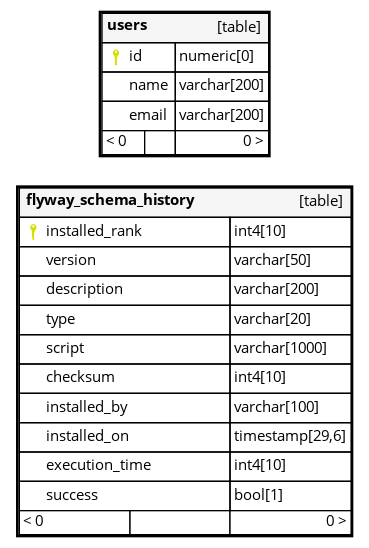
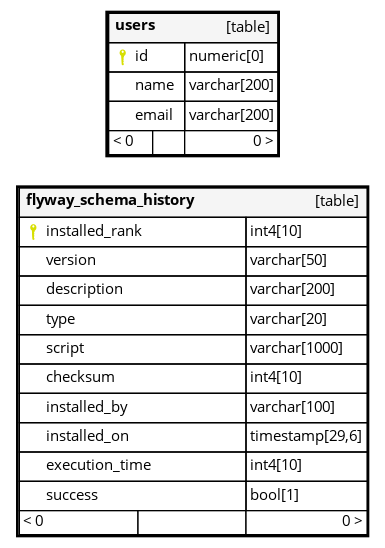
Deploying to gh-pages from @ bcgov/gbadb@96ab37b8b881ae4fc830bc71c710c72a555bdfd5 🚀

diff --git a/schemaspy/users/columns.html b/schemaspy/users/columns.html
@@ -116,9 +116,23 @@
         "tableType": "Table",
         "keyClass": "",
         "keyTitle": "",
-        "name": "version",
+        "name": "script",
         "type": "varchar",
-        "length": 50,
+        "length": 1000,
+        "nullable": "",
+        "autoUpdated": "",
+        "defaultValue": "null",
+        "comments": ""
+    },
+    {
+        "tableName": "flyway_schema_history",
+        "tableFileName": "flyway_schema_history",
+        "tableType": "Table",
+        "keyClass": "",
+        "keyTitle": "",
+        "name": "checksum",
+        "type": "int4",
+        "length": 10,
         "nullable": "√",
         "autoUpdated": "",
         "defaultValue": "null",
@@ -130,9 +144,9 @@
         "tableType": "Table",
         "keyClass": "",
         "keyTitle": "",
-        "name": "installed_by",
-        "type": "varchar",
-        "length": 100,
+        "name": "execution_time",
+        "type": "int4",
+        "length": 10,
         "nullable": "",
         "autoUpdated": "",
         "defaultValue": "null",
@@ -142,28 +156,14 @@
         "tableName": "flyway_schema_history",
         "tableFileName": "flyway_schema_history",
         "tableType": "Table",
-        "keyClass": "",
-        "keyTitle": "",
-        "name": "installed_on",
-        "type": "timestamp",
-        "length": 29,
+        "keyClass": "indexedColumn",
+        "keyTitle": "Indexed",
+        "name": "<i class='fa fa-sitemap fa-rotate-120' style='padding-right: 5px;'><\/i>success",
+        "type": "bool",
+        "length": 1,
         "nullable": "",
         "autoUpdated": "",
-        "defaultValue": "now()",
-        "comments": ""
-    },
-    {
-        "tableName": "users",
-        "tableFileName": "users",
-        "tableType": "Table",
-        "keyClass": "primaryKey",
-        "keyTitle": "Primary Key",
-        "name": "<i class='icon ion-key iconkey' style='padding-left: 5px;'><\/i>id",
-        "type": "numeric",
-        "length": 0,
-        "nullable": "",
-        "autoUpdated": "√",
-        "defaultValue": "nextval('users.\"USER_SEQ\"'::regclass)",
+        "defaultValue": "null",
         "comments": ""
     },
     {
@@ -181,29 +181,29 @@
         "comments": ""
     },
     {
-        "tableName": "flyway_schema_history",
-        "tableFileName": "flyway_schema_history",
-        "tableType": "Table",
-        "keyClass": "primaryKey",
-        "keyTitle": "Primary Key",
-        "name": "<i class='icon ion-key iconkey' style='padding-left: 5px;'><\/i>installed_rank",
-        "type": "int4",
-        "length": 10,
-        "nullable": "",
-        "autoUpdated": "",
-        "defaultValue": "null",
-        "comments": ""
-    },
-    {
         "tableName": "users",
         "tableFileName": "users",
         "tableType": "Table",
+        "keyClass": "primaryKey",
+        "keyTitle": "Primary Key",
+        "name": "<i class='icon ion-key iconkey' style='padding-left: 5px;'><\/i>id",
+        "type": "numeric",
+        "length": 0,
+        "nullable": "",
+        "autoUpdated": "√",
+        "defaultValue": "nextval('users.\"USER_SEQ\"'::regclass)",
+        "comments": ""
+    },
+    {
+        "tableName": "flyway_schema_history",
+        "tableFileName": "flyway_schema_history",
+        "tableType": "Table",
         "keyClass": "",
         "keyTitle": "",
-        "name": "email",
+        "name": "version",
         "type": "varchar",
-        "length": 200,
-        "nullable": "",
+        "length": 50,
+        "nullable": "√",
         "autoUpdated": "",
         "defaultValue": "null",
         "comments": ""
@@ -228,37 +228,23 @@
         "tableType": "Table",
         "keyClass": "",
         "keyTitle": "",
-        "name": "checksum",
-        "type": "int4",
-        "length": 10,
-        "nullable": "√",
-        "autoUpdated": "",
-        "defaultValue": "null",
-        "comments": ""
-    },
-    {
-        "tableName": "flyway_schema_history",
-        "tableFileName": "flyway_schema_history",
-        "tableType": "Table",
-        "keyClass": "indexedColumn",
-        "keyTitle": "Indexed",
-        "name": "<i class='fa fa-sitemap fa-rotate-120' style='padding-right: 5px;'><\/i>success",
-        "type": "bool",
-        "length": 1,
+        "name": "installed_on",
+        "type": "timestamp",
+        "length": 29,
         "nullable": "",
         "autoUpdated": "",
-        "defaultValue": "null",
+        "defaultValue": "now()",
         "comments": ""
     },
     {
-        "tableName": "flyway_schema_history",
-        "tableFileName": "flyway_schema_history",
+        "tableName": "users",
+        "tableFileName": "users",
         "tableType": "Table",
         "keyClass": "",
         "keyTitle": "",
-        "name": "script",
+        "name": "email",
         "type": "varchar",
-        "length": 1000,
+        "length": 200,
         "nullable": "",
         "autoUpdated": "",
         "defaultValue": "null",
@@ -282,11 +268,25 @@
         "tableName": "flyway_schema_history",
         "tableFileName": "flyway_schema_history",
         "tableType": "Table",
-        "keyClass": "",
-        "keyTitle": "",
-        "name": "execution_time",
+        "keyClass": "primaryKey",
+        "keyTitle": "Primary Key",
+        "name": "<i class='icon ion-key iconkey' style='padding-left: 5px;'><\/i>installed_rank",
         "type": "int4",
         "length": 10,
+        "nullable": "",
+        "autoUpdated": "",
+        "defaultValue": "null",
+        "comments": ""
+    },
+    {
+        "tableName": "flyway_schema_history",
+        "tableFileName": "flyway_schema_history",
+        "tableType": "Table",
+        "keyClass": "",
+        "keyTitle": "",
+        "name": "installed_by",
+        "type": "varchar",
+        "length": 100,
         "nullable": "",
         "autoUpdated": "",
         "defaultValue": "null",

diff --git a/schemaspy/users/index.html b/schemaspy/users/index.html
@@ -78,7 +78,7 @@
                         <div class="col-md-12">
                             <div class="callout callout-info">
                                 <h4>SchemaSpy Analysis of default.users</h4>
-                                <p>Generated on Wed Aug 02 01:58 GMT 2023</p>
+                                <p>Generated on Fri Aug 11 20:24 GMT 2023</p>
                             </div>
                         </div>
                     </div>
@@ -168,7 +168,7 @@
                             <span class="label label-primary pull-right"><i class="fa fa-cog fa-2x"></i></span>
                         </div><!-- /.box-header -->
                         <div class="box-body">
-                            <p>Database Type: PostgreSQL - 15.3 (Debian 15.3-1.pgdg120+1)</p>
+                            <p>Database Type: PostgreSQL - 15.4 (Debian 15.4-1.pgdg120+1)</p>
                         </div><!-- /.box-body -->
                     </div>
                     <div class="box box-primary">

diff --git a/schemaspy/index.html b/schemaspy/index.html
@@ -49,7 +49,7 @@
                 <section class="content-header">
                     <div class="callout callout-info">
                         <h4>SchemaSpy Analysis of default</h4>
-                        <p>Generated on Wed Aug 02 01:58 GMT 2023</p>
+                        <p>Generated on Fri Aug 11 20:24 GMT 2023</p>
                     </div>
                 </section>
                 <!-- Main content -->
@@ -60,7 +60,7 @@
                             <span class="label label-primary pull-right"><i class="fa fa-cog fa-2x"></i></span>
                         </div><!-- /.box-header -->
                         <div class="box-body">
-                            <p>Database Type: PostgreSQL - 15.3 (Debian 15.3-1.pgdg120+1)</p>
+                            <p>Database Type: PostgreSQL - 15.4 (Debian 15.4-1.pgdg120+1)</p>
                         </div><!-- /.box-body -->
                     </div>
                     <div class="box box-primary">

diff --git a/schemaspy/users/tables/flyway_schema_history.html b/schemaspy/users/tables/flyway_schema_history.html
@@ -342,7 +342,7 @@
                                 <div class="tab-content no-padding">
                                     <div class="chart tab-pane active" id="oneDegreeImg-chart" style="position: relative; overflow-x:auto;">
                                         <map id="oneDegreeRelationshipsDiagram" name="oneDegreeRelationshipsDiagram">
-<area shape="rect" id="node1" href="flyway_schema_history.html" target="_top" title="flyway_schema_history" alt="" coords="5,5,364,368">
+<area shape="rect" id="node1" href="flyway_schema_history.html" target="_top" title="flyway_schema_history" alt="" coords="5,5,380,368">
 </map>
                                         <a name='diagram'><img id="oneDegreeImg" src="../diagrams/tables/flyway_schema_history.1degree.png" usemap="#oneDegreeRelationshipsDiagram" class="diagram" border="0" align="left"></a>
                                     </div>

diff --git a/schemaspy/users/orphans.html b/schemaspy/users/orphans.html
@@ -87,8 +87,8 @@
                                 <div class="item">
 <img id="orphans" src="diagrams/orphans/orphans.png" usemap="#orphans" style="max-width:100%;" border="0" align="top">
 <map id="orphans" name="orphans">
-<area shape="rect" id="node1" href="tables/flyway_schema_history.html" target="_top" title="flyway_schema_history" alt="" coords="5,180,364,543">
-<area shape="rect" id="node2" href="tables/users.html" target="_top" title="users" alt="" coords="88,5,281,163">
+<area shape="rect" id="node1" href="tables/flyway_schema_history.html" target="_top" title="flyway_schema_history" alt="" coords="5,180,380,543">
+<area shape="rect" id="node2" href="tables/users.html" target="_top" title="users" alt="" coords="95,5,291,163">
 </map>
                                 </div>
                             </div>

diff --git a/schemaspy/users/tables/users.html b/schemaspy/users/tables/users.html
@@ -217,7 +217,7 @@
                                 <div class="tab-content no-padding">
                                     <div class="chart tab-pane active" id="oneDegreeImg-chart" style="position: relative; overflow-x:auto;">
                                         <map id="oneDegreeRelationshipsDiagram" name="oneDegreeRelationshipsDiagram">
-<area shape="rect" id="node1" href="users.html" target="_top" title="users" alt="" coords="7,5,200,163">
+<area shape="rect" id="node1" href="users.html" target="_top" title="users" alt="" coords="5,5,201,163">
 </map>
                                         <a name='diagram'><img id="oneDegreeImg" src="../diagrams/tables/users.1degree.png" usemap="#oneDegreeRelationshipsDiagram" class="diagram" border="0" align="left"></a>
                                     </div>
